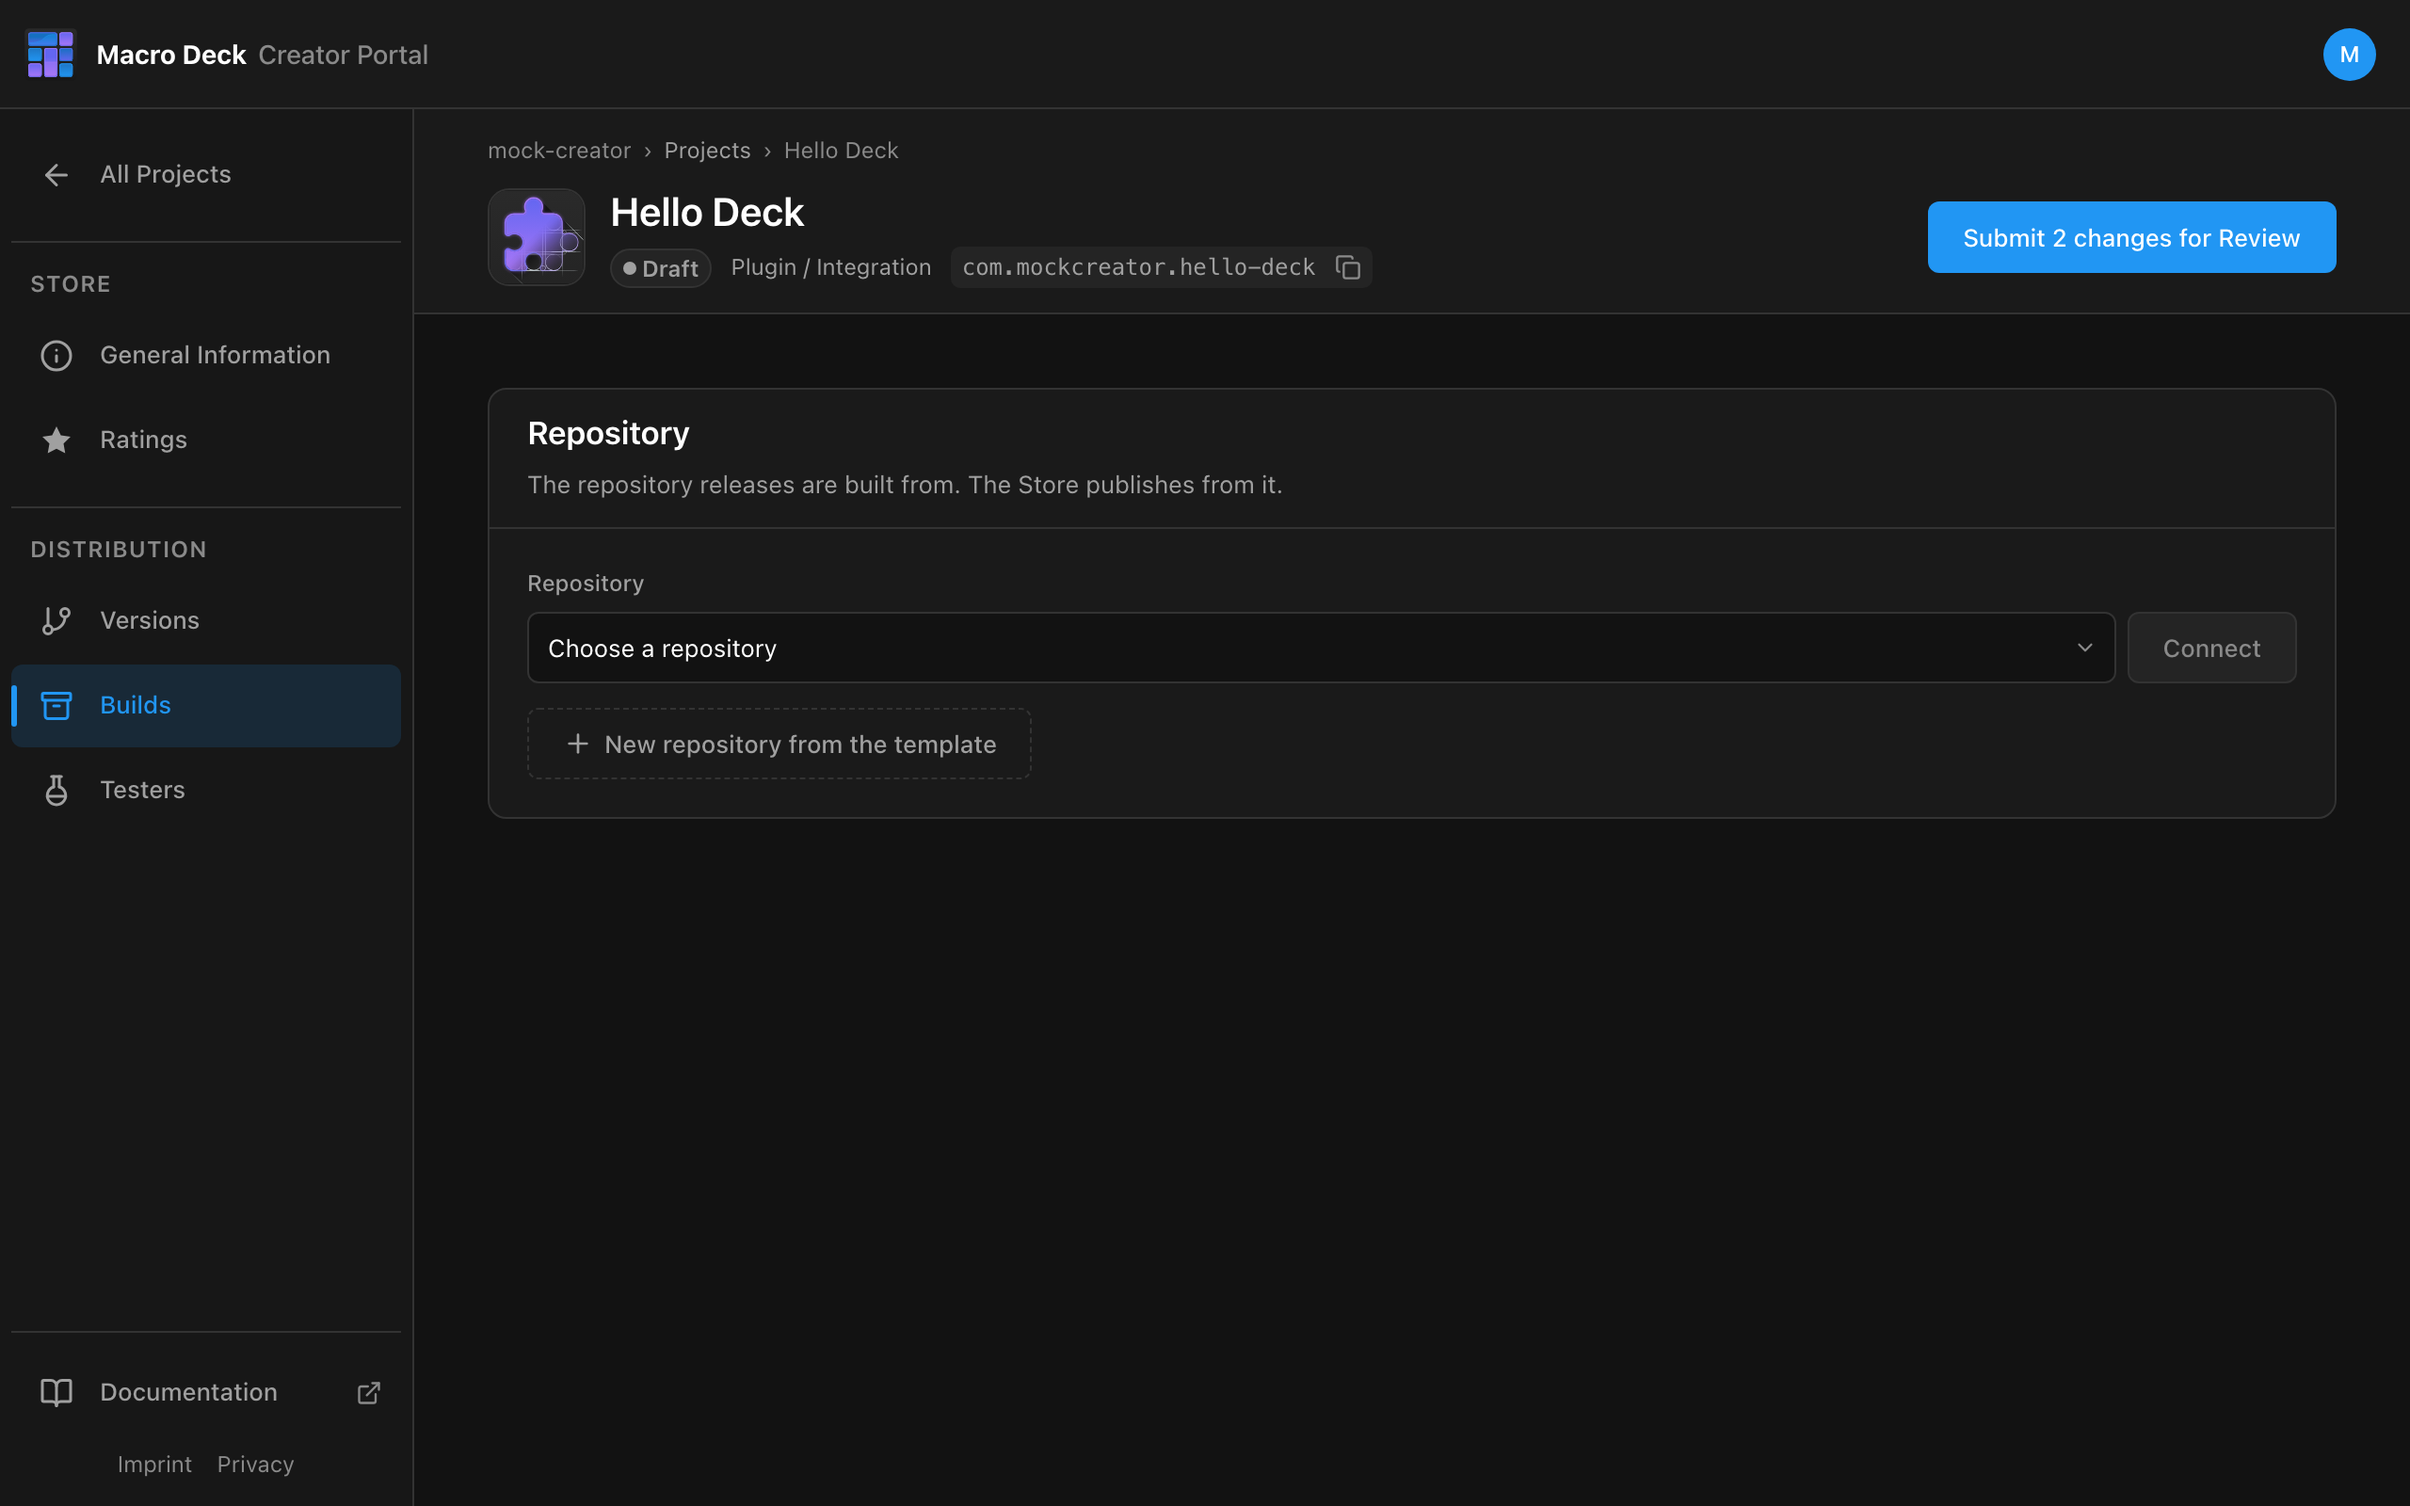
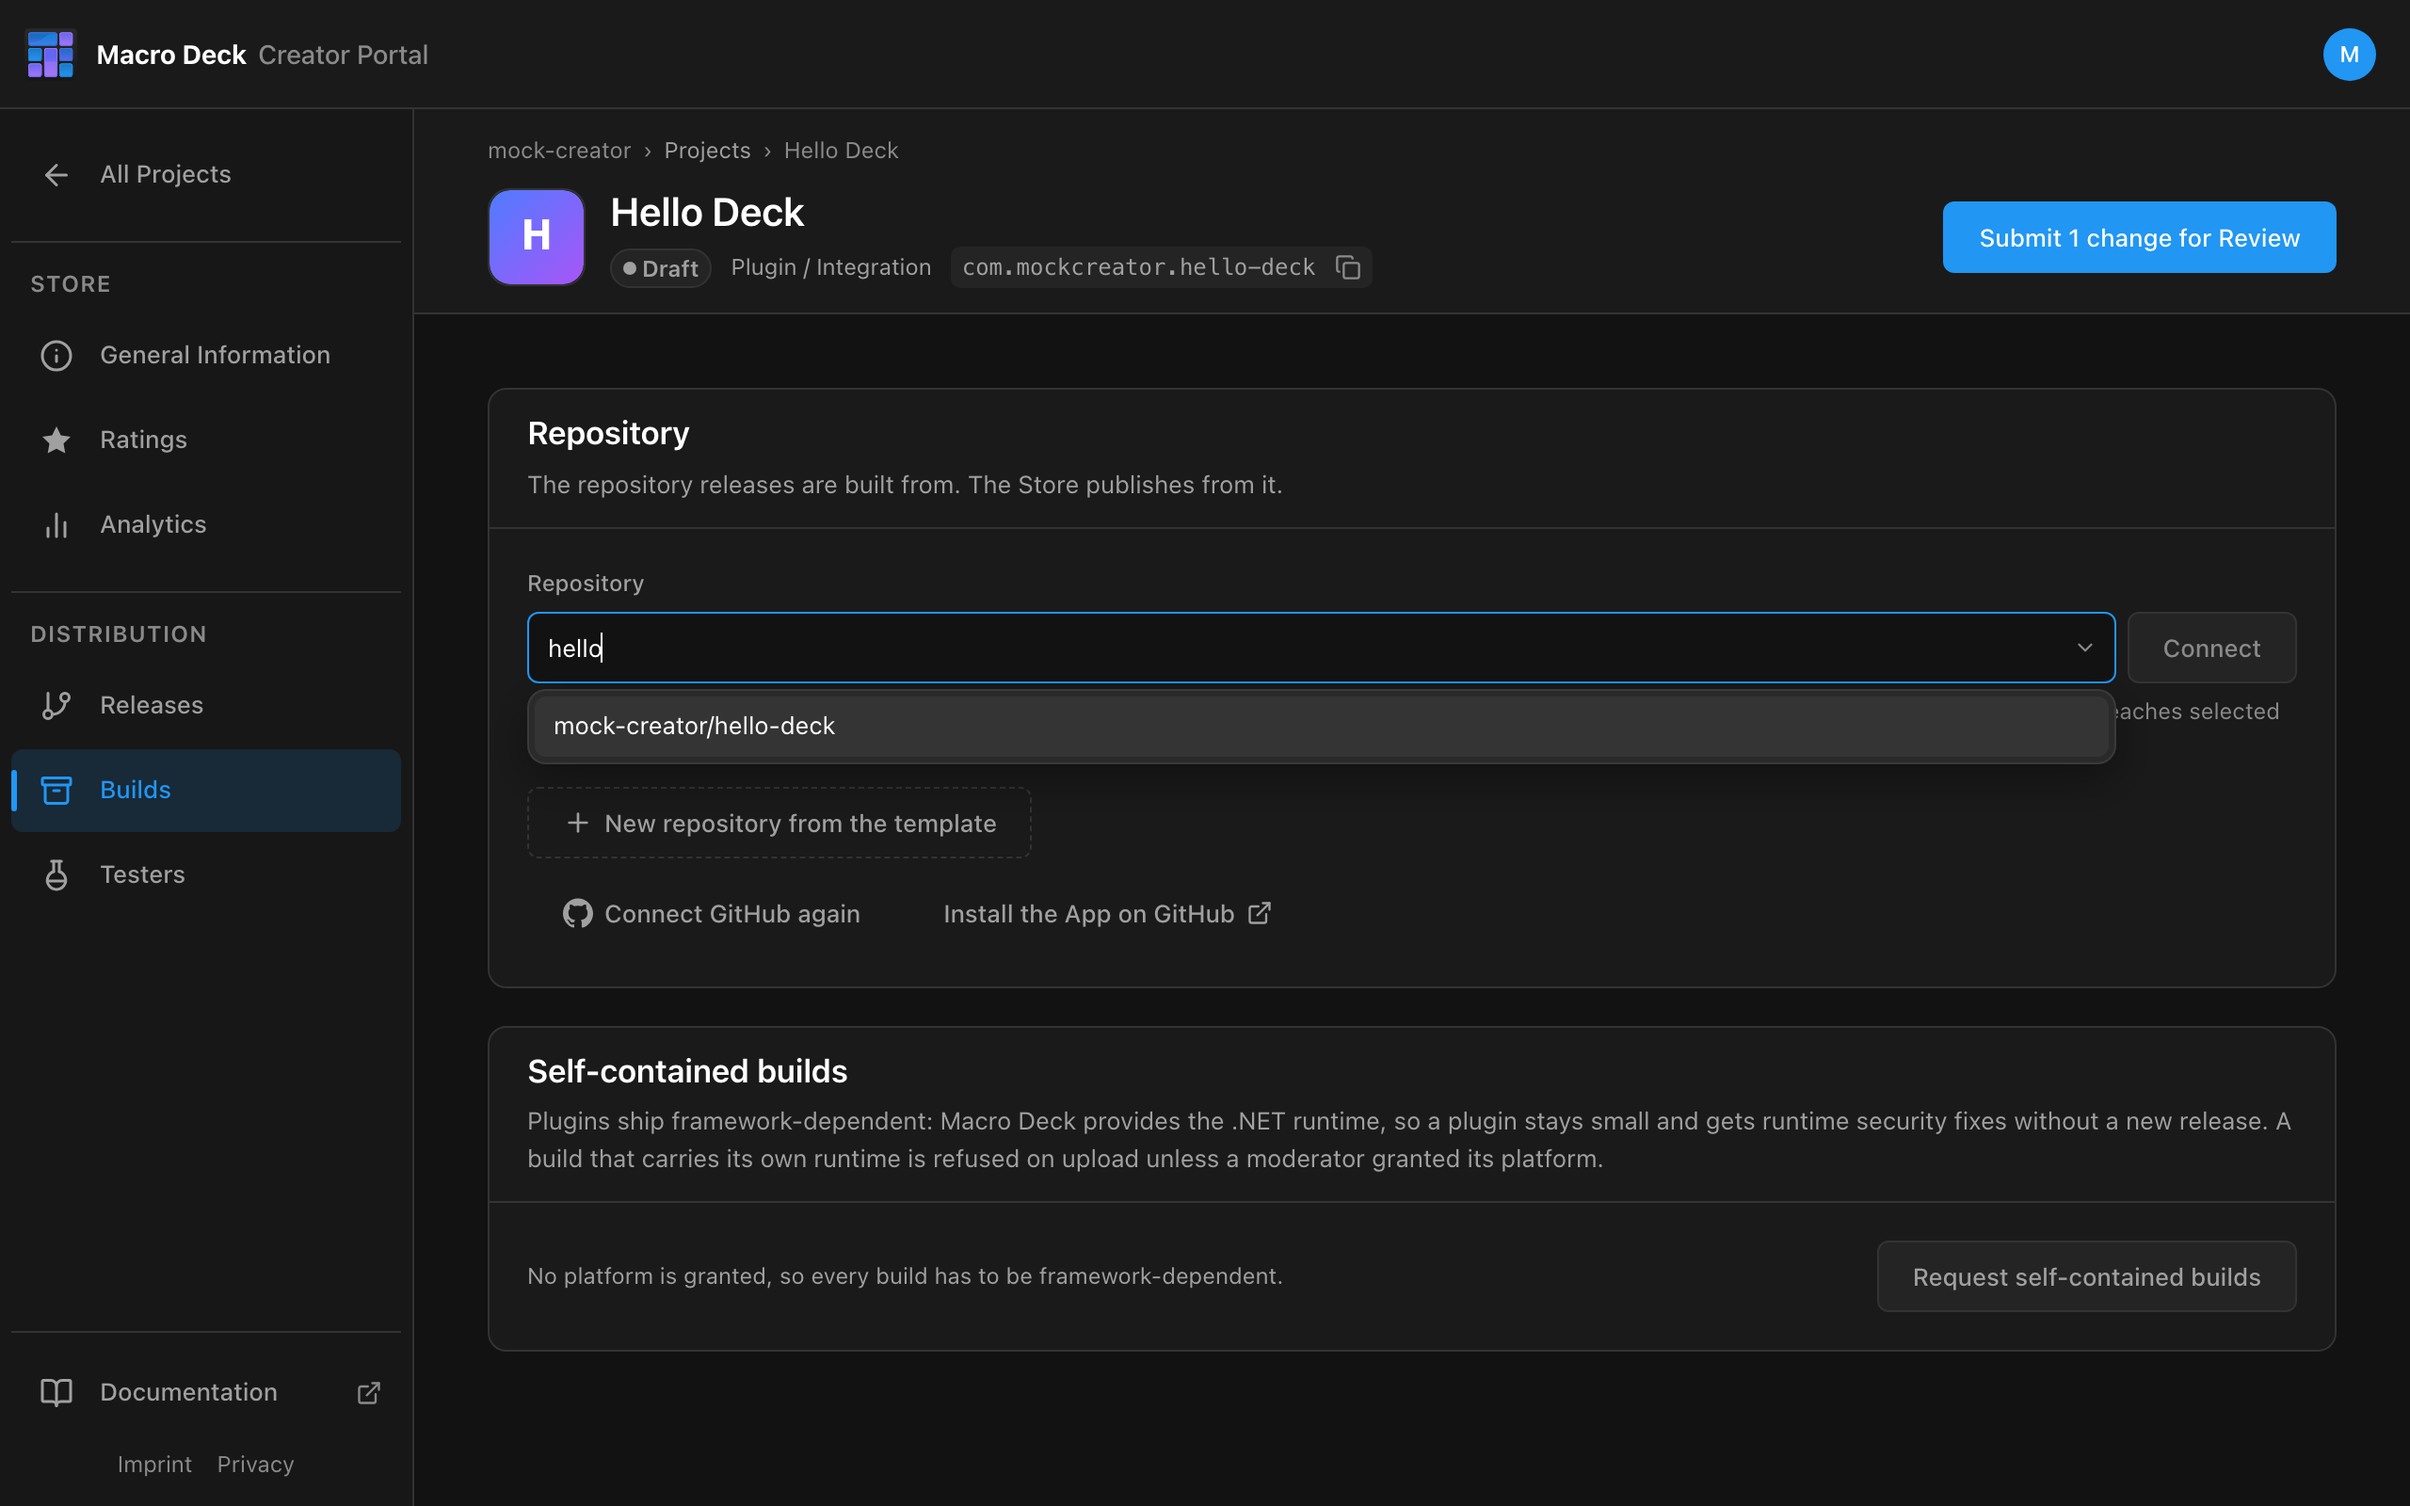
Document test reports, repository search, Releases and the plugin CLI version in the Creator Portal guide

diff --git a/docs/src/content/docs/creator-portal/publish-plugin.md b/docs/src/content/docs/creator-portal/publish-plugin.md
@@ -21,9 +21,9 @@ Before you start:
 Open **Builds** and select **Connect GitHub**. Install the Macro Deck Platform App on your account or
 organization if GitHub asks for it.
 
-![The Repository panel with a repository picker and New repository from the template](../../../assets/creator-portal/builds-repository.png)
+![The Repository panel searching for hello, with mock-creator/hello-deck matching](../../../assets/creator-portal/builds-repository.png)
 
-- **Choose a repository** and select **Connect**, or
+- **Search your repositories**: type any part of the name, pick the repository and select **Connect**, or
 - **New repository from the template** creates a public repository from the plugin template.
 
 One repository per Project, one Project per repository. Private repositories are not offered.
@@ -100,19 +100,34 @@ restored, including known vulnerabilities.
 
 ## 4. Create a release
 
-Select **Create release** on the build.
+Install the build in Macro Deck and try it first. Then select **Create release** on the build.
 
-![The Create release 1.0.0 dialog with a changelog](../../../assets/creator-portal/create-release.png)
+The dialog has two steps. **Changelog** comes first; the version number comes from the build and
+cannot be changed, and the changelog can still be edited on **Releases**.
 
-The version number comes from the build and cannot be changed. The changelog can still be edited on
-**Versions**.
+![The Create release 1.0.0 dialog, first step: the changelog](../../../assets/creator-portal/create-release.png)
+
+**Testing** asks how you tested the build. The moderator reads it with your submission.
+
+![The Create release 1.0.0 dialog, second step: tested by hand, Macro Deck 3.0.0, Windows 11 24H2 x64, macOS 15.1 arm64 and OBS Studio 31.0](../../../assets/creator-portal/create-release-testing.png)
+
+| Field | |
+| --- | --- |
+| I installed this build in Macro Deck and tested it by hand | Required. |
+| Macro Deck version | Required. The version you tested with, for example `3.0.0`. |
+| Tested on | At least one operating system and architecture, with the operating system's version. Only the platforms the build ships are offered. |
+| Third-party software | Optional. Programs the plugin talks to, with their version, for example OBS Studio. |
+| Additional information for the reviewer | Optional. Anything that helps the review: an account it needs, a setting to turn on. Not shown in the Store. |
+
+**Create release** becomes available once the first box and a platform are ticked.
 
 ## 5. Submit for review
 
-On **Versions**, check the release and select **Add to submission**.
+On **Releases**, check the release and select **Add to submission**.
 
-![Version 1.0.0 in preparation with dependencies, changelog and Add to submission](../../../assets/creator-portal/versions.png)
+![Version 1.0.0 in preparation with how it was tested, dependencies and the changelog](../../../assets/creator-portal/versions.png)
 
+- **How you tested it**: **Edit** changes the test report until you submit.
 - **Release automatically once approved**: turn it off to publish the approved version yourself later.
 - **Discard version** removes the release. The build stays in the library.
 
@@ -121,7 +136,8 @@ moderator; **Revert** removes one.
 
 ![The Submit for Review dialog listing Summary, Tags, Images and Version 1.0.0](../../../assets/creator-portal/submit.png)
 
-Submitting needs the current Creator Guidelines accepted; the portal asks when they are not. Continue with
+Submitting needs the current Creator Guidelines accepted; the portal asks when they are not. A release
+created before test reports were asked for needs one first: **Add test report** on **Releases**. Continue with
 [Review and release](/creator-portal/review/).
 
 ## Release an update
@@ -145,6 +161,7 @@ published one.
 | `403`, repository does not match | The repository connected to the Project is not the one the workflow ran in, or `manifest.json` has a different `id`. |
 | `409`, not a tag | The workflow ran from a branch. Trigger it with a published release. |
 | `409`, in review | Withdraw the submission, then re-run the workflow. |
+| `422`, plugin CLI | The build was made with a MacroDeck.Plugin.Cli older than the Store accepts. Raise `cli-version`, or leave it empty for the workflow's default. |
 | Repository no longer offered | It is private. Only public repositories can publish. |
 
 See all refusals in the [release workflow reference](/creator-portal/release-workflow/#errors).

diff --git a/docs/src/content/docs/creator-portal/release-workflow.md b/docs/src/content/docs/creator-portal/release-workflow.md
@@ -95,7 +95,7 @@ A rule of thumb: if `macrodeck-plugin build` succeeds on Ubuntu, leave this off.
 | File | Content |
 | --- | --- |
 | `.macroDeckPlugin` | The built, unsigned package. |
-| `build-metadata.json` | Package id (from `manifest.json`), version, build and changelog. |
+| `build-metadata.json` | Package id (from `manifest.json`), version, build, changelog and the MacroDeck.Plugin.Cli version that made the package. |
 | `dependencies.json` | The NuGet packages the build restored, with known vulnerabilities. |
 | `conformance.json` | Optional. The conformance suite's report from the stub host run; see [Conformance report](/creator-portal/conformance/). |
 
@@ -111,4 +111,5 @@ Commit, tag, repository and workflow are read from GitHub's signed token, never 
 | `400` | The package or its metadata is unreadable. | Check the build step's log. |
 | `409` | The run was not started from a tag. | Trigger the workflow with a published release. |
 | `409` | The Project is in review. | Withdraw the submission and re-run. |
+| `422` | The plugin CLI is older than the minimum the Store requires, or the workflow did not report it. | Set `cli-version` to a newer version or leave it empty, and call `publish-plugin.yml@v1`. The minimum is published at `/api/v1/public/dependency-policy/sdk` as `minimumCliVersion`. |
 | `503` | GitHub's signing keys were unreachable. | Nothing was stored. Re-run the workflow. |

diff --git a/docs/src/content/docs/creator-portal/review.md b/docs/src/content/docs/creator-portal/review.md
@@ -45,7 +45,7 @@ or to upload a new plugin build.
 ## Release by hand
 
 Turn off **Release automatically once approved** before submitting. After approval the version waits
-as **Ready to release**; release it from **Versions** when you are ready.
+as **Ready to release**; release it from **Releases** when you are ready.
 
 ## After publishing
 

diff --git a/docs/src/content/docs/creator-portal/publish-icon-pack.md b/docs/src/content/docs/creator-portal/publish-icon-pack.md
@@ -46,7 +46,7 @@ Upload the **Icon** under **Images**; an icon pack cannot be submitted without o
 
 ## 3. Start a version
 
-Open **Versions**.
+Open **Releases**.
 
 ![Next version with Version and Changelog fields and Start this version](../../../assets/creator-portal/iconpack-versions-empty.png)
 
